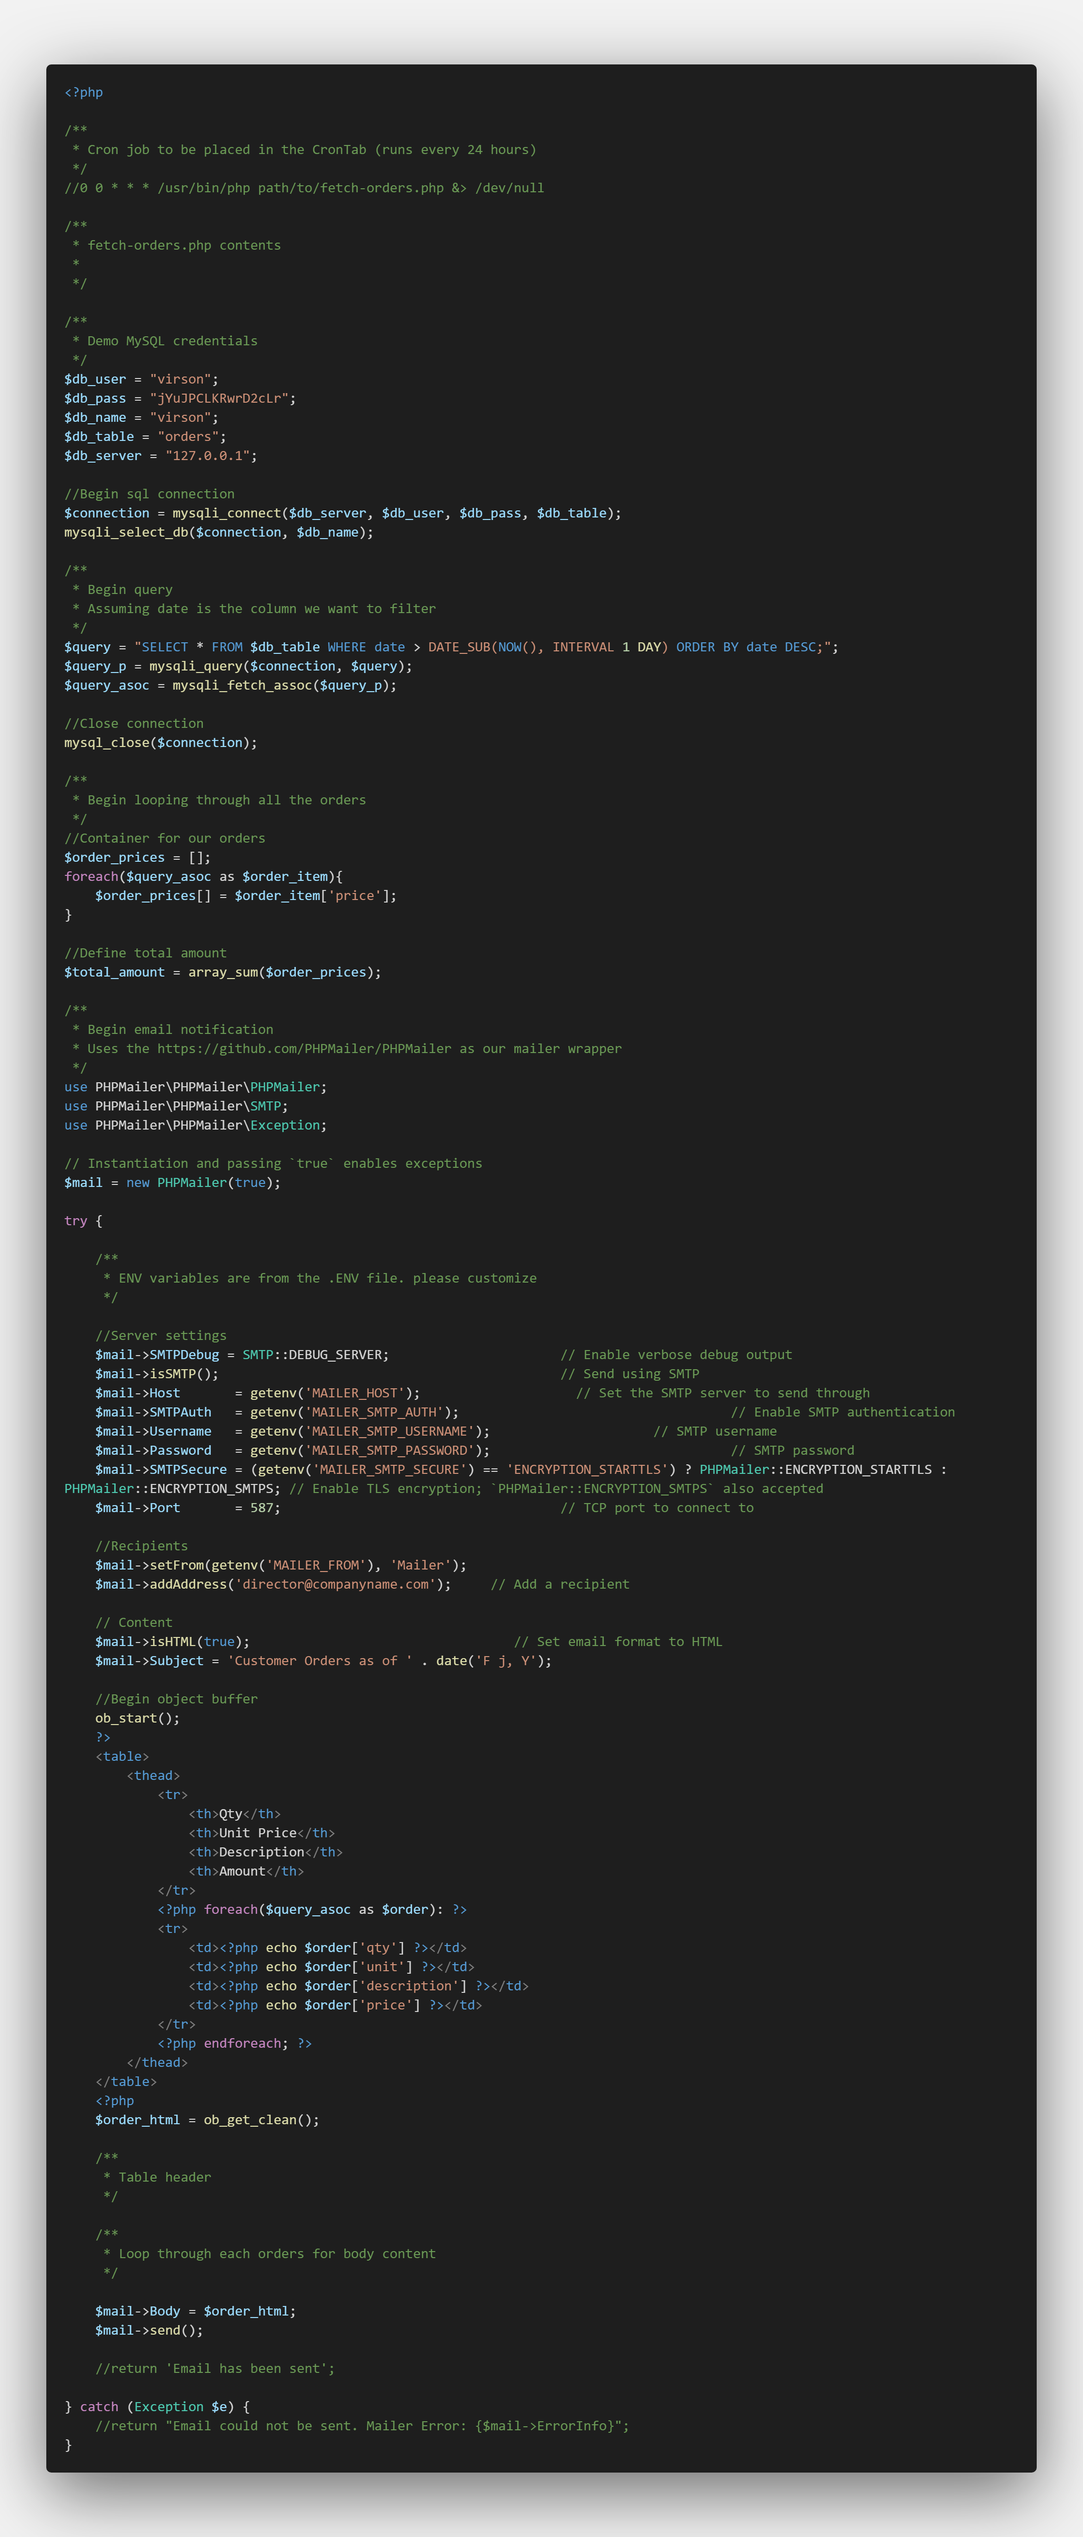
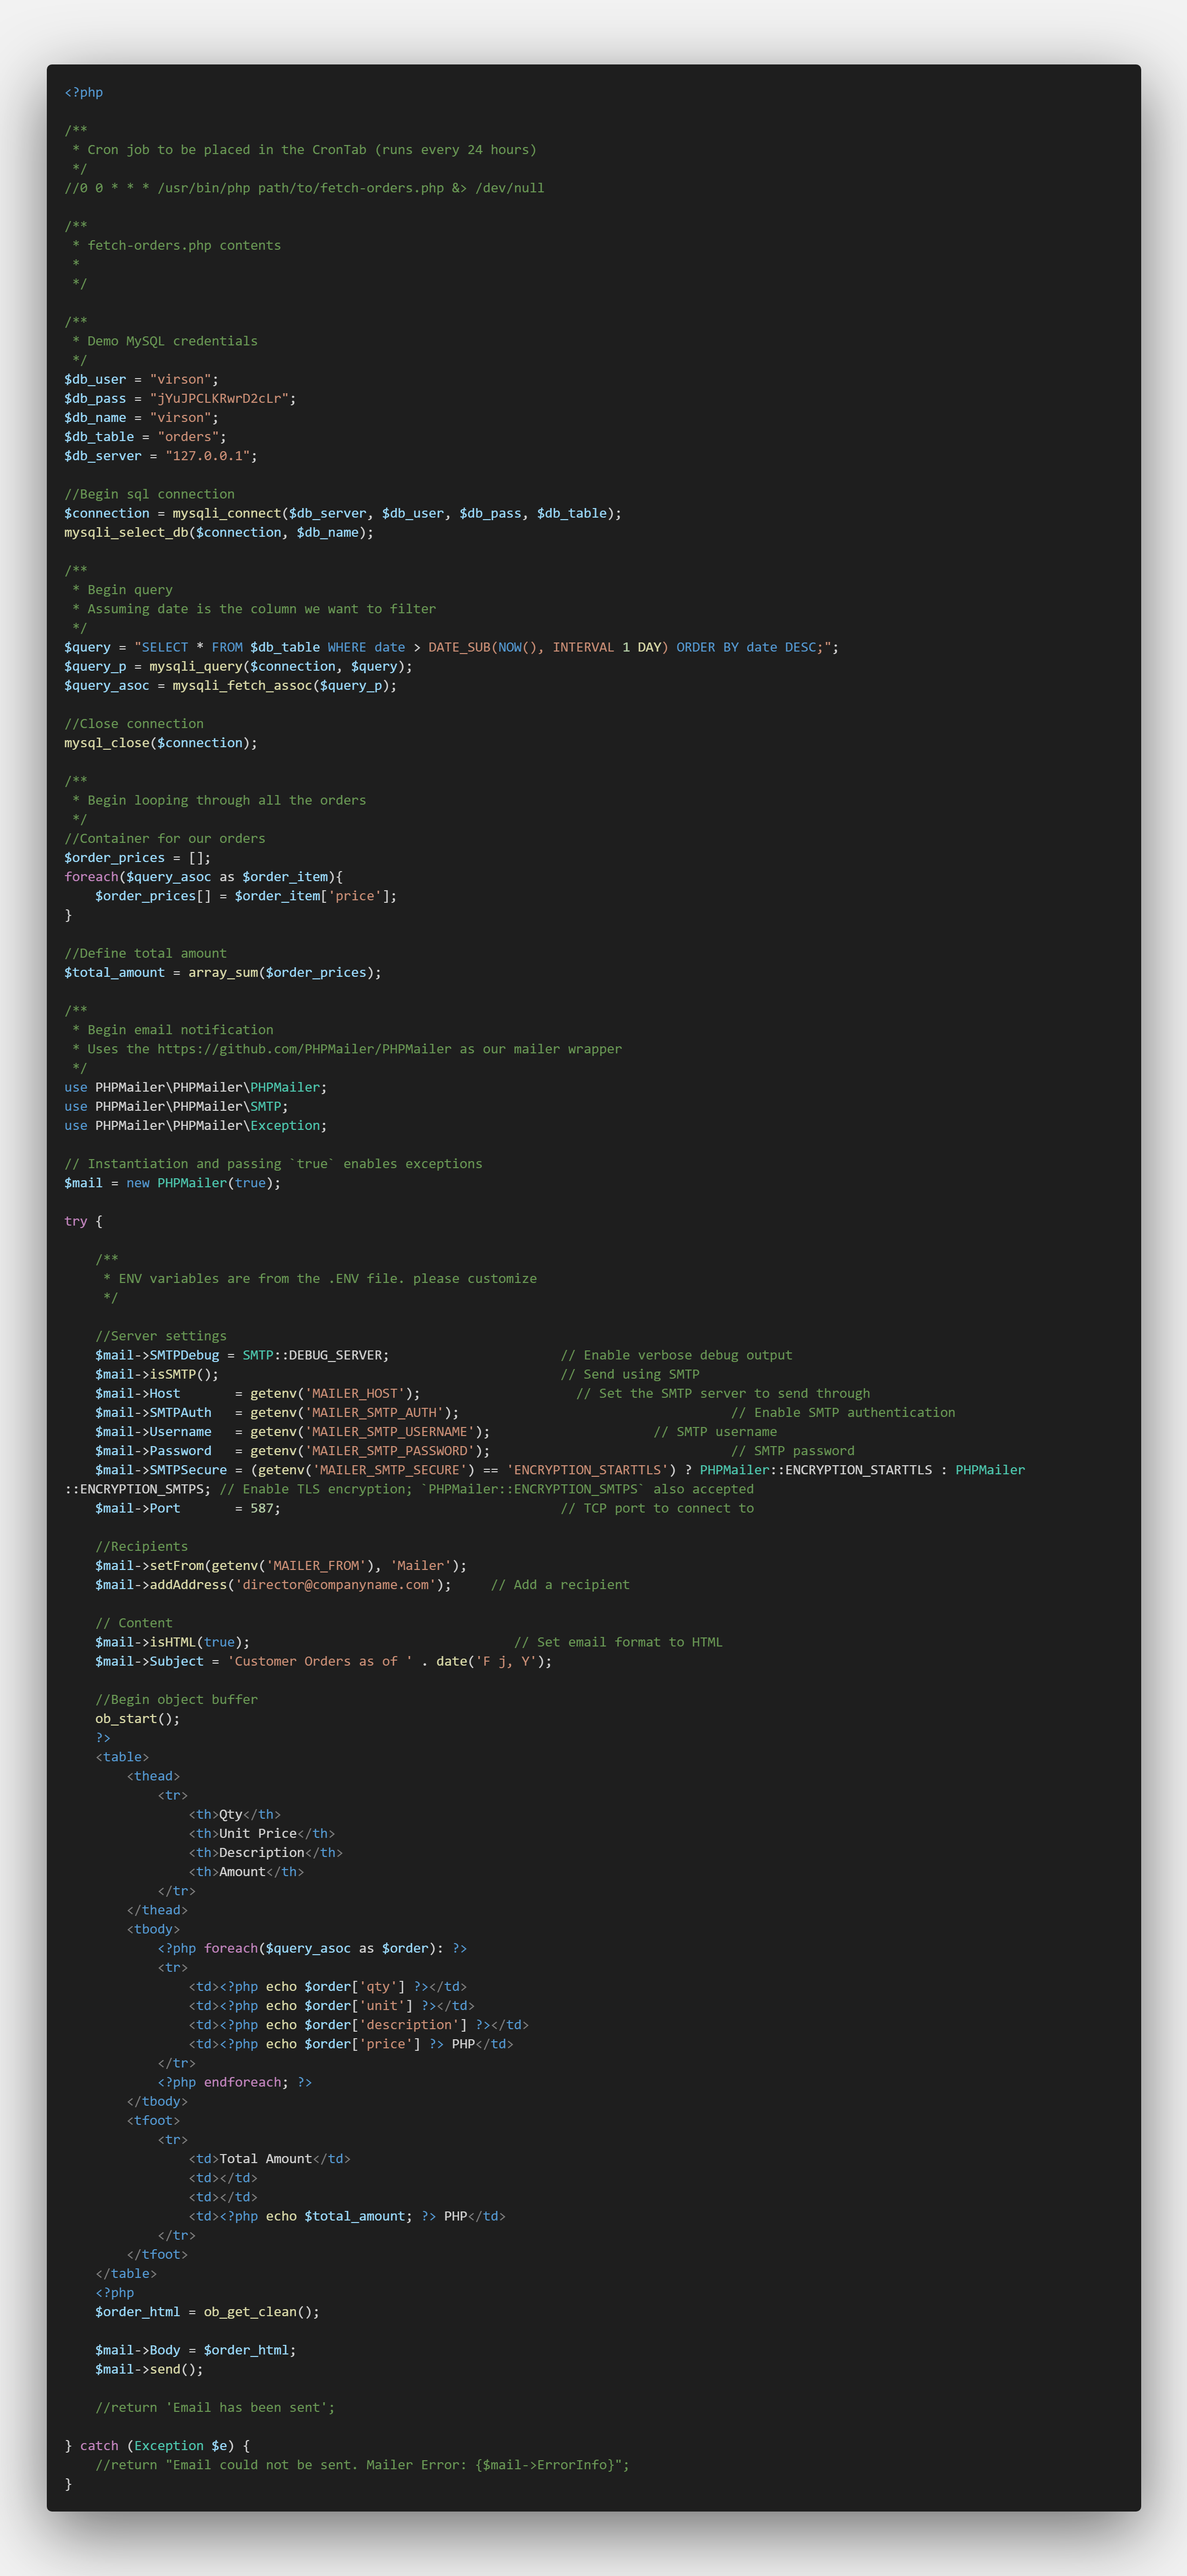
Changes to the code screenshot.

diff --git a/fetch-orders.php b/fetch-orders.php
@@ -92,26 +92,28 @@ try {
                 <th>Description</th>
                 <th>Amount</th>
             </tr>
+        </thead>
+        <tbody>
             <?php foreach($query_asoc as $order): ?>
             <tr>
                 <td><?php echo $order['qty'] ?></td>
                 <td><?php echo $order['unit'] ?></td>
                 <td><?php echo $order['description'] ?></td>
-                <td><?php echo $order['price'] ?></td>
+                <td><?php echo $order['price'] ?> PHP</td>
             </tr>
             <?php endforeach; ?>
-        </thead>
+        </tbody>
+        <tfoot>
+            <tr>
+                <td>Total Amount</td>
+                <td></td>
+                <td></td>
+                <td><?php echo $total_amount; ?> PHP</td>
+            </tr>
+        </tfoot>
     </table>
     <?php
     $order_html = ob_get_clean();
-
-    /**
-     * Table header
-     */
-
-    /**
-     * Loop through each orders for body content
-     */
 
     $mail->Body = $order_html;
     $mail->send();
